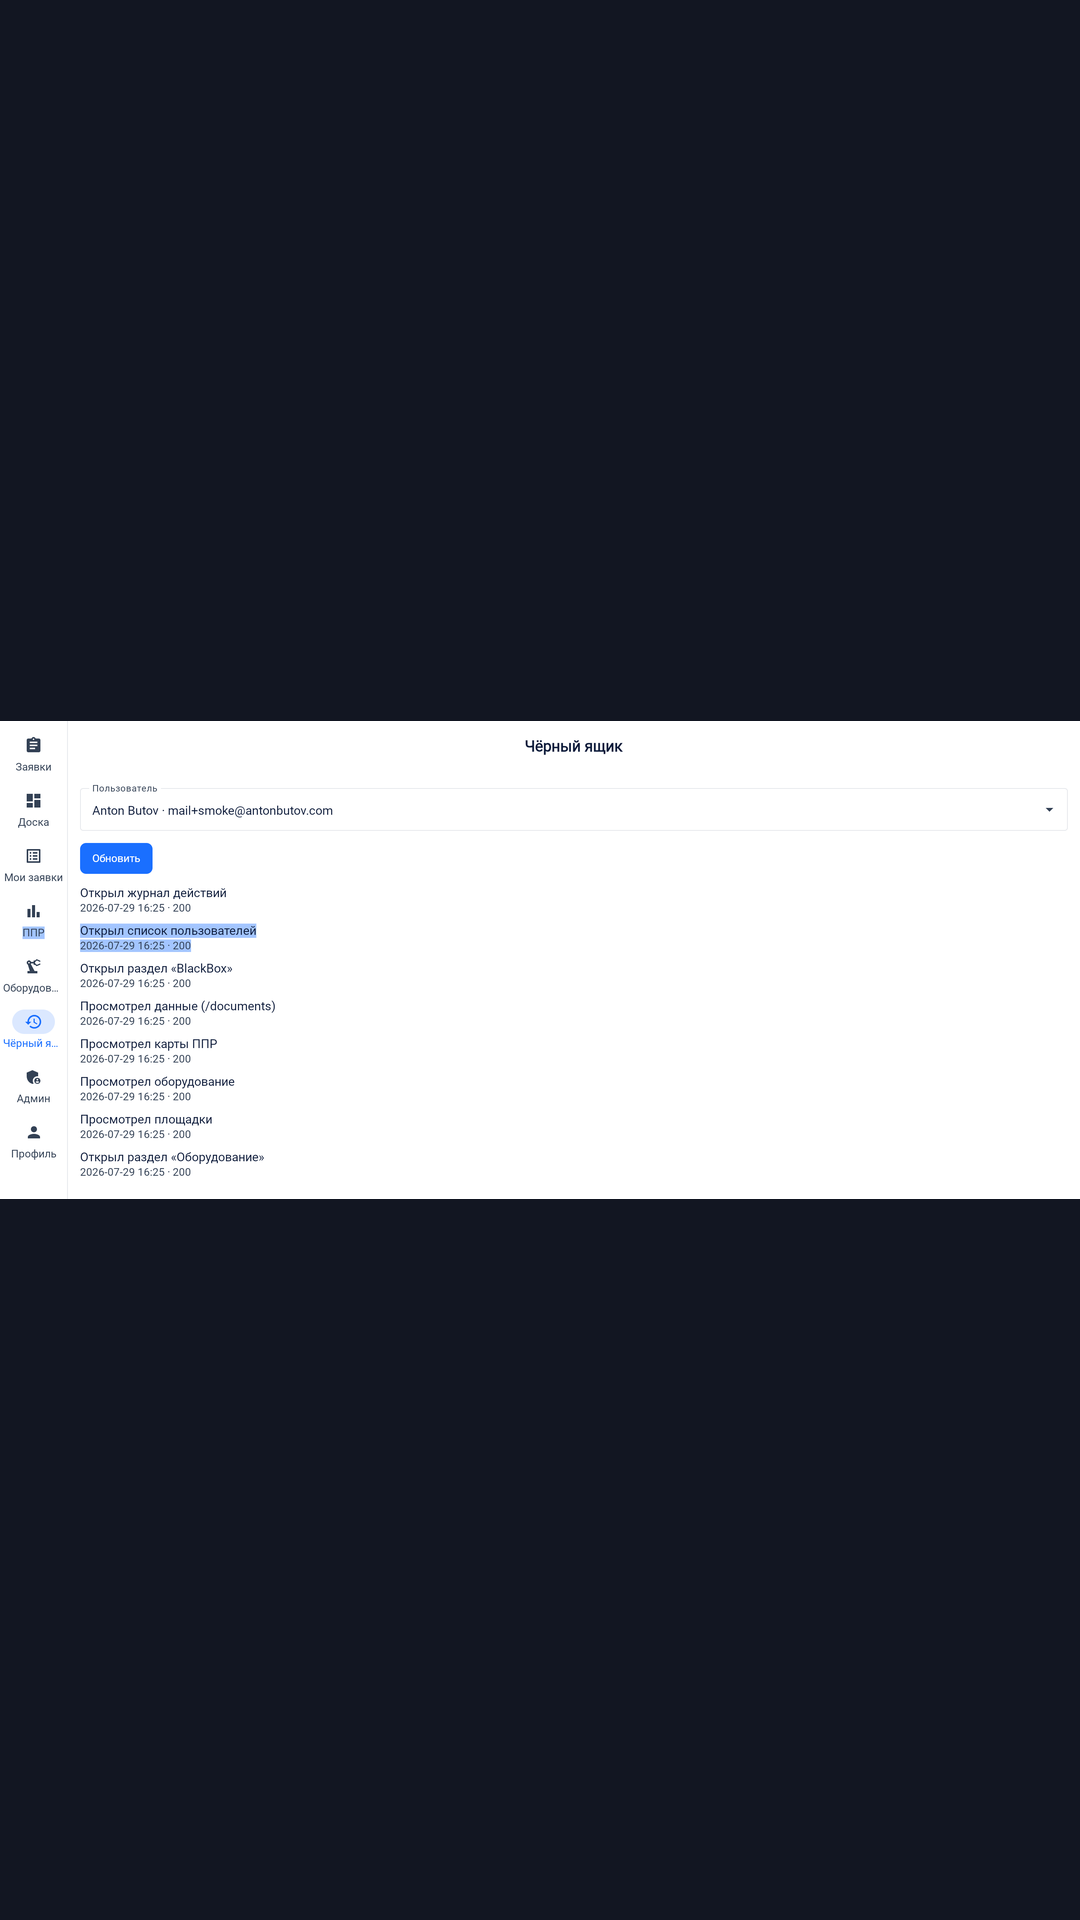
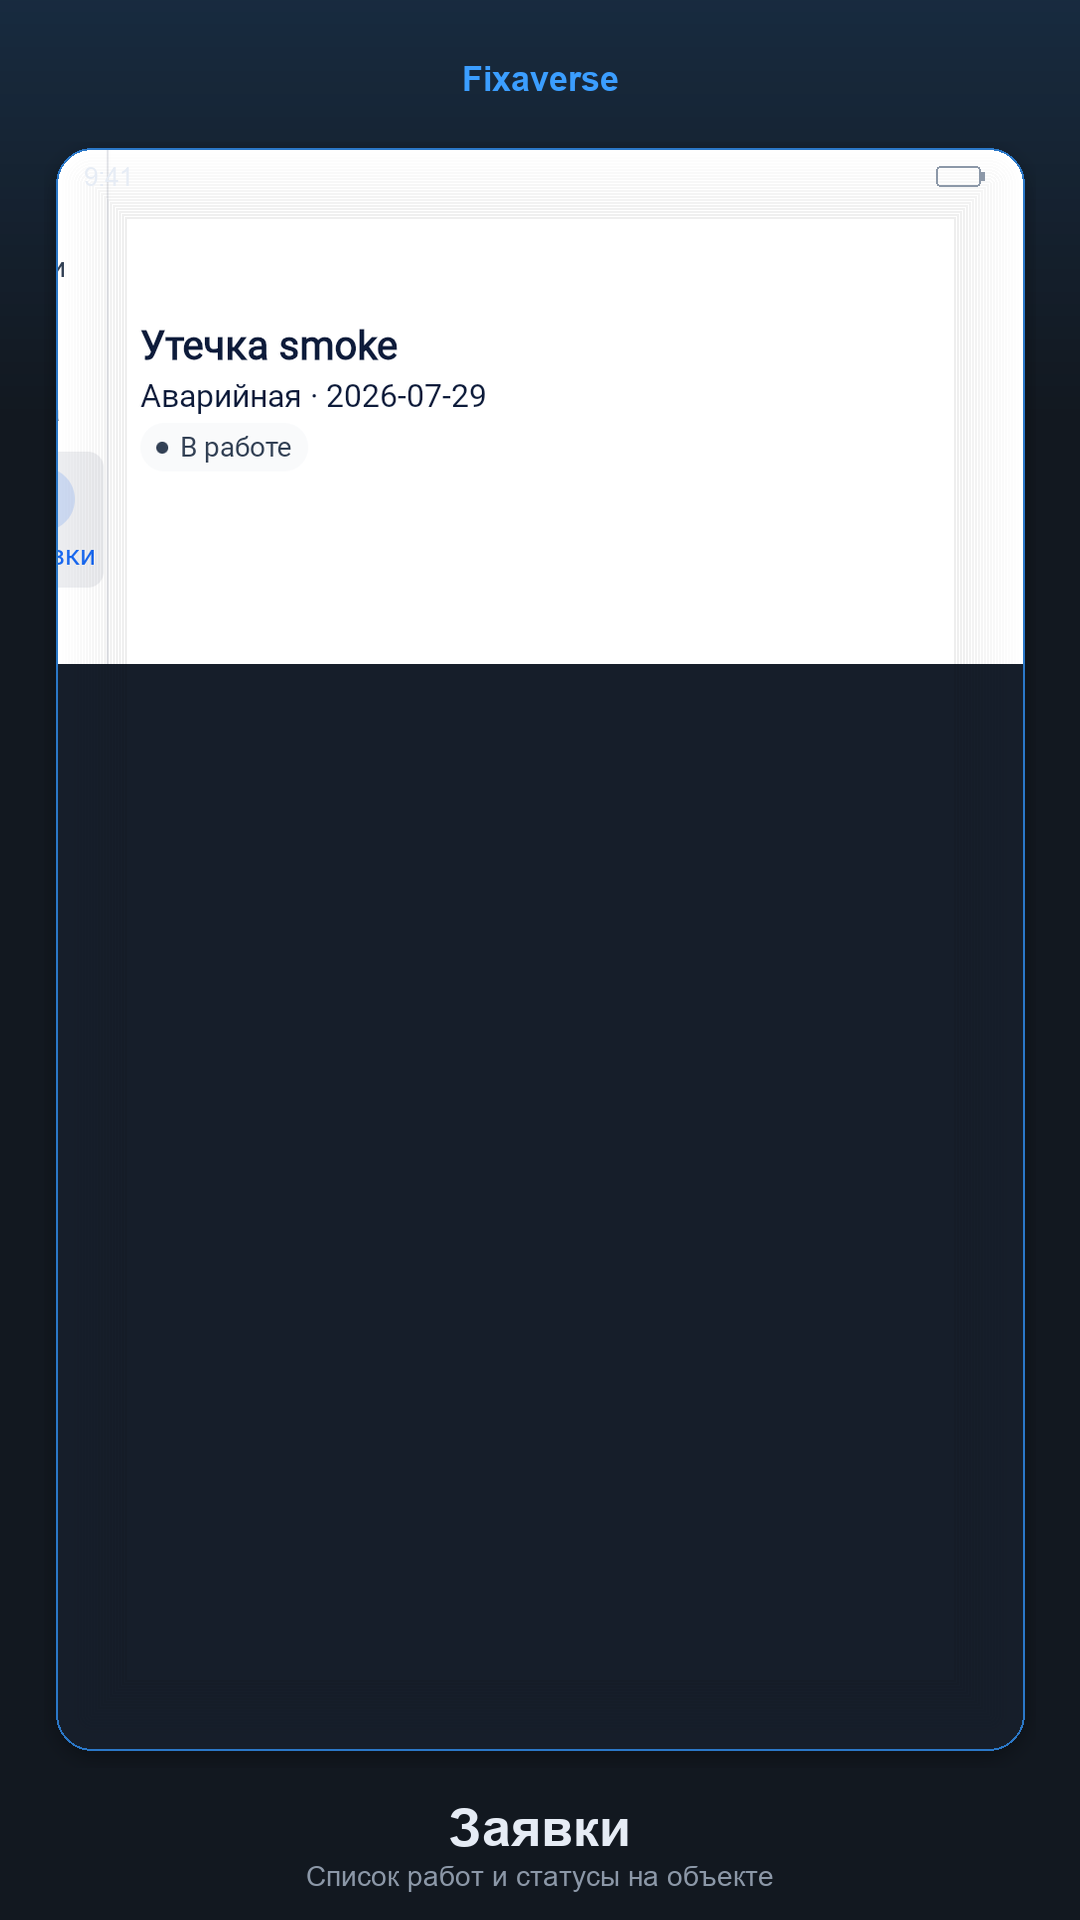
chore(rustore): polished store screenshots and listing polish

diff --git a/store/rustore/generate_assets.py b/store/rustore/generate_assets.py
@@ -1,0 +1,277 @@
+#!/usr/bin/env python3
+"""Generate polished RuStore screenshots and icon from smoke captures."""
+
+from __future__ import annotations
+
+import math
+from pathlib import Path
+
+from PIL import Image, ImageDraw, ImageFilter, ImageFont
+
+ROOT = Path(__file__).resolve().parents[2]
+OUT = Path(__file__).resolve().parent
+UPLOAD = OUT / "upload"
+
+W, H = 1080, 1920
+BG = (18, 24, 32)  # #121820
+ACCENT = (59, 158, 255)  # #3B9EFF
+ACCENT_DIM = (43, 120, 200)
+TEXT = (230, 236, 245)
+TEXT_DIM = (140, 152, 168)
+FRAME_BG = (22, 30, 42)
+
+STATUS_H = 52
+BRAND_H = 72
+CAPTION_H = 130
+FRAME_PAD_X = 56
+FRAME_TOP = STATUS_H + BRAND_H + 24
+FRAME_BOTTOM = CAPTION_H + 40
+RADIUS = 36
+
+
+def load_font(size: int, bold: bool = False) -> ImageFont.FreeTypeFont:
+    candidates = [
+        "/System/Library/Fonts/Supplemental/Arial Bold.ttf" if bold else "/System/Library/Fonts/Supplemental/Arial.ttf",
+        "/System/Library/Fonts/Supplemental/Helvetica.ttc",
+        "/Library/Fonts/Arial Unicode.ttf",
+    ]
+    for path in candidates:
+        p = Path(path)
+        if p.exists():
+            return ImageFont.truetype(str(p), size=size)
+    return ImageFont.load_default()
+
+
+def cover_rect(draw: ImageDraw.ImageDraw, box: tuple[int, int, int, int], color=(255, 255, 255)) -> None:
+    x0, y0, x1, y1 = box
+    draw.rectangle(box, fill=color)
+
+
+def crop_main_content(
+    src: Image.Image,
+    sidebar_px: int = 130,
+    box: tuple[int, int, int, int] | None = None,
+) -> Image.Image:
+    w, h = src.size
+    if box is None:
+        return src.crop((sidebar_px, 0, w, h))
+    return src.crop(box)
+
+
+def fit_width_crop(img: Image.Image, tw: int, th: int, focus_y: float = 0.0) -> Image.Image:
+    iw, ih = img.size
+    scale = tw / iw
+    nh = int(ih * scale)
+    resized = img.resize((tw, nh), Image.Resampling.LANCZOS)
+    if nh >= th:
+        top = int((nh - th) * focus_y)
+        top = max(0, min(top, nh - th))
+        return resized.crop((0, top, tw, top + th))
+    canvas = Image.new("RGB", (tw, th), FRAME_BG)
+    canvas.paste(resized, (0, 0))
+    return canvas
+
+
+def rounded_mask(size: tuple[int, int], radius: int) -> Image.Image:
+    mask = Image.new("L", size, 0)
+    draw = ImageDraw.Draw(mask)
+    draw.rounded_rectangle((0, 0, size[0] - 1, size[1] - 1), radius=radius, fill=255)
+    return mask
+
+
+def draw_status_bar(base: Image.Image, draw: ImageDraw.ImageDraw, x0: int, y0: int, fw: int) -> None:
+    font = load_font(26)
+    draw.text((x0 + 28, y0 + 14), "9:41", fill=TEXT, font=font)
+    bx = x0 + fw - 88
+    by = y0 + 18
+    draw.rounded_rectangle((bx, by, bx + 44, by + 20), radius=4, outline=TEXT_DIM, width=2)
+    draw.rectangle((bx + 44, by + 6, bx + 48, by + 14), fill=TEXT_DIM)
+
+
+def draw_brand(draw: ImageDraw.ImageDraw, y: int) -> None:
+    font = load_font(34, bold=True)
+    tw = draw.textlength("Fixaverse", font=font)
+    draw.text(((W - tw) / 2, y), "Fixaverse", fill=ACCENT, font=font)
+
+
+def draw_caption(draw: ImageDraw.ImageDraw, y: int, title: str, subtitle: str) -> None:
+    title_font = load_font(52, bold=True)
+    sub_font = load_font(28)
+    tw = draw.textlength(title, font=title_font)
+    draw.text(((W - tw) / 2, y), title, fill=TEXT, font=title_font)
+    sw = draw.textlength(subtitle, font=sub_font)
+    draw.text(((W - sw) / 2, y + 62), subtitle, fill=TEXT_DIM, font=sub_font)
+
+
+def add_vignette(frame: Image.Image) -> Image.Image:
+    overlay = Image.new("RGBA", frame.size, (0, 0, 0, 0))
+    draw = ImageDraw.Draw(overlay)
+    fw, fh = frame.size
+    for i in range(24):
+        alpha = int(18 * (i / 24))
+        inset = i * 3
+        draw.rounded_rectangle(
+            (inset, inset, fw - inset, fh - inset),
+            radius=max(RADIUS - inset, 0),
+            outline=(0, 0, 0, alpha),
+            width=2,
+        )
+    return Image.alpha_composite(frame.convert("RGBA"), overlay)
+
+
+def compose_screenshot(
+    src_path: Path,
+    out_path: Path,
+    caption: str,
+    subtitle: str,
+    sidebar_px: int = 130,
+    crop_box: tuple[int, int, int, int] | None = None,
+    cover_boxes: list[tuple[int, int, int, int]] | None = None,
+    focus_y: float = 0.5,
+) -> None:
+    src = Image.open(src_path).convert("RGB")
+    content = crop_main_content(src, sidebar_px, crop_box)
+
+    if cover_boxes:
+        draw_src = ImageDraw.Draw(content)
+        for box in cover_boxes:
+            cover_rect(draw_src, box, color=(241, 245, 249))
+
+    frame_w = W - FRAME_PAD_X * 2
+    frame_h = H - FRAME_TOP - FRAME_BOTTOM
+
+    ui = fit_width_crop(content, frame_w, frame_h, focus_y=focus_y)
+
+    canvas = Image.new("RGB", (W, H), BG)
+    draw = ImageDraw.Draw(canvas)
+
+    # Subtle top gradient accent
+    grad = Image.new("RGBA", (W, 420), (0, 0, 0, 0))
+    gd = ImageDraw.Draw(grad)
+    for y in range(420):
+        a = int(36 * (1 - y / 420))
+        gd.line([(0, y), (W, y)], fill=(ACCENT[0], ACCENT[1], ACCENT[2], a))
+    canvas.paste(Image.alpha_composite(Image.new("RGBA", (W, 420), (*BG, 255)), grad).convert("RGB"), (0, 0))
+
+    draw = ImageDraw.Draw(canvas)
+    draw_brand(draw, STATUS_H + 8)
+
+    fx = FRAME_PAD_X
+    fy = FRAME_TOP
+    shadow = Image.new("RGBA", (frame_w + 24, frame_h + 24), (0, 0, 0, 0))
+    sd = ImageDraw.Draw(shadow)
+    sd.rounded_rectangle((12, 12, frame_w + 12, frame_h + 12), radius=RADIUS + 4, fill=(0, 0, 0, 90))
+    shadow = shadow.filter(ImageFilter.GaussianBlur(10))
+    canvas.paste(shadow, (fx - 12, fy - 6), shadow)
+
+    frame = Image.new("RGBA", (frame_w, frame_h), (*FRAME_BG, 255))
+    frame.paste(ui, (0, 0))
+    frame = add_vignette(frame)
+    mask = rounded_mask((frame_w, frame_h), RADIUS)
+    canvas.paste(frame.convert("RGB"), (fx, fy), mask)
+
+    draw = ImageDraw.Draw(canvas)
+    draw.rounded_rectangle((fx, fy, fx + frame_w, fy + frame_h), radius=RADIUS, outline=(ACCENT_DIM[0], ACCENT_DIM[1], ACCENT_DIM[2]), width=2)
+    draw_status_bar(canvas, draw, fx, fy, frame_w)
+
+    cap_y = H - CAPTION_H + 8
+    draw_caption(draw, cap_y, caption, subtitle)
+
+    canvas.save(out_path, "PNG", optimize=True)
+    print(f"wrote {out_path} ({canvas.size})")
+
+
+def draw_link_mark(size: int) -> Image.Image:
+    """Crisp Fixaverse S-link mark for store icon."""
+    img = Image.new("RGBA", (size, size), (0, 0, 0, 0))
+    draw = ImageDraw.Draw(img)
+    s = size
+    stroke = max(16, s // 14)
+    light = ACCENT + (255,)
+    dark = (28, 88, 160, 255)
+    outline = (220, 236, 255, 255)
+
+    def line(a, b, fill):
+        draw.line([a, b], fill=fill, width=stroke)
+
+    pad = s * 0.18
+    x0, y0 = pad, pad + s * 0.08
+    x1, y1 = s - pad, s * 0.42
+    x2, y2 = pad, s * 0.58
+    x3, y3 = s - pad, s - pad - s * 0.08
+    pts = [(x0, y0), (x1, y1), (x2, y2), (x3, y3)]
+    for i in range(len(pts) - 1):
+        draw.line([pts[i], pts[i + 1]], fill=outline, width=stroke + 4)
+    line((x0, y0), (x1, y1), light)
+    line((x1, y1), (x2, y2), dark)
+    line((x2, y2), (x3, y3), light)
+    r = stroke * 0.55
+    for cx, cy in [(x1, y0), (x3, y3)]:
+        draw.ellipse((cx - r, cy - r, cx + r, cy + r), fill=outline)
+        draw.ellipse((cx - r * 0.55, cy - r * 0.55, cx + r * 0.55, cy + r * 0.55), fill=(*BG, 255))
+    return img
+
+
+def generate_icon(out_path: Path, mark_path: Path | None = None) -> None:
+    size = 512
+    canvas = Image.new("RGBA", (size, size), (0, 0, 0, 0))
+    draw = ImageDraw.Draw(canvas)
+
+    pad = 8
+    draw.rounded_rectangle((pad, pad, size - pad, size - pad), radius=96, fill=(*BG, 255))
+    draw.rounded_rectangle((pad + 4, pad + 4, size - pad - 4, size - pad - 4), radius=92, outline=(*ACCENT_DIM, 180), width=3)
+
+    mark = draw_link_mark(int(size * 0.72))
+    mx = (size - mark.width) // 2
+    my = (size - mark.height) // 2 + 4
+    canvas.paste(mark, (mx, my), mark)
+
+    canvas.save(out_path, "PNG", optimize=True)
+    print(f"wrote {out_path}")
+
+
+def main() -> None:
+    UPLOAD.mkdir(parents=True, exist_ok=True)
+
+    compose_screenshot(
+        ROOT / "smoke-uuid-06-mywo.png",
+        UPLOAD / "screenshot-01.png",
+        caption="Заявки",
+        subtitle="Список работ и статусы на объекте",
+        crop_box=(125, 0, 1100, 520),
+        focus_y=0.0,
+    )
+
+    compose_screenshot(
+        ROOT / ".superpowers/sdd/smoke-board2.png",
+        UPLOAD / "screenshot-02.png",
+        caption="Карта",
+        subtitle="Доска недели и заявки на линии",
+        crop_box=(125, 0, 2100, 860),
+        cover_boxes=[(1180, 365, 1585, 535)],
+        focus_y=0.08,
+    )
+
+    compose_screenshot(
+        ROOT / "smoke-eq5-detail.png",
+        UPLOAD / "screenshot-03.png",
+        caption="Оборудование",
+        subtitle="Паспорт, документы и инвентарный номер",
+        crop_box=(95, 0, 1280, 820),
+        focus_y=0.0,
+    )
+
+    compose_screenshot(
+        ROOT / "smoke-uuid-11-ppr.png",
+        UPLOAD / "screenshot-04.png",
+        caption="ППР",
+        subtitle="Карты обслуживания и регламенты",
+        crop_box=(125, 0, 1650, 980),
+        focus_y=0.22,
+    )
+
+    generate_icon(OUT / "icon-512.png")
+
+
+if __name__ == "__main__":
+    main()

diff --git a/store/rustore/copy.md b/store/rustore/copy.md
@@ -11,27 +11,27 @@ Fixaverse — заявки для инженера
 ## Краткое описание
 
 ```
-Мобильный клиент инженера: заявки, карта, оборудование и ППР.
+Заявки, доска недели, карта коллег, оборудование и ППР — в одном приложении инженера.
 ```
 
 ## Полное описание
 
 ```
-Fixaverse помогает инженеру работать с заявками на объекте: список работ, карта коллег, оборудование и карты ППР.
+Fixaverse — мобильный клиент инженера на объекте. Работайте с заявками, следите за доской недели и картой коллег, открывайте паспорт оборудования и карты ППР без лишних переходов.
 
-Что внутри:
-• Заявки и статусы работ
-• Карта инженеров на линии
-• Оборудование и документы
-• ППР и связанные материалы
+Возможности:
+• Заявки — список работ, статусы и детали на месте
+• Доска и карта — план недели и инженеры на линии
+• Оборудование — паспорт, документы и привязка к площадке
+• ППР — карты обслуживания и регламенты в базе
 
-Требуется аккаунт организации Fixaverse.
+Приложение для сотрудников обслуживающих организаций. Требуется корпоративный аккаунт Fixaverse.
 ```
 
 ## Комментарий модератору
 
 ```
-Корпоративное приложение для инженеров обслуживающих организаций. Вход по корпоративной учётной записи.
+Корпоративное приложение для инженеров и техников обслуживающих организаций. Вход по корпоративной учётной записи организации Fixaverse. Персональные данные пользователей не передаются третьим лицам.
 ```
 
 ## Карточка
@@ -46,7 +46,7 @@ Fixaverse помогает инженеру работать с заявками
 ## Что нового
 
 ```
-• Первый релиз Fixaverse для инженеров
-• Заявки, карта, оборудование и ППР в одном приложении
-• Подготовлена поддержка обязательных обновлений
+• Первый релиз Fixaverse для Android
+• Заявки, доска, оборудование и ППР в одном приложении
+• Поддержка обязательных обновлений через RuStore
 ```
